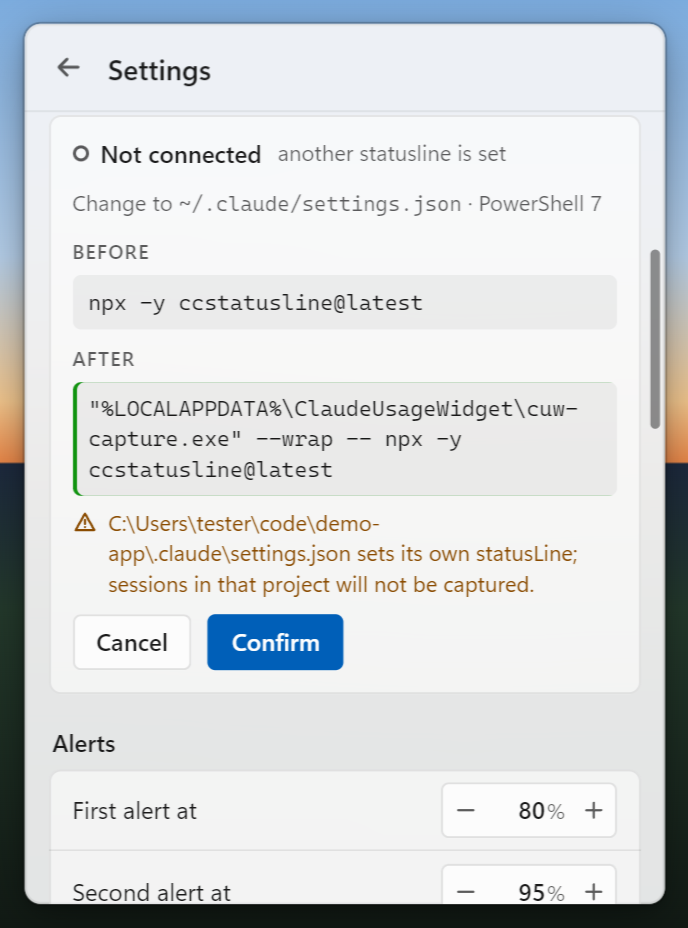
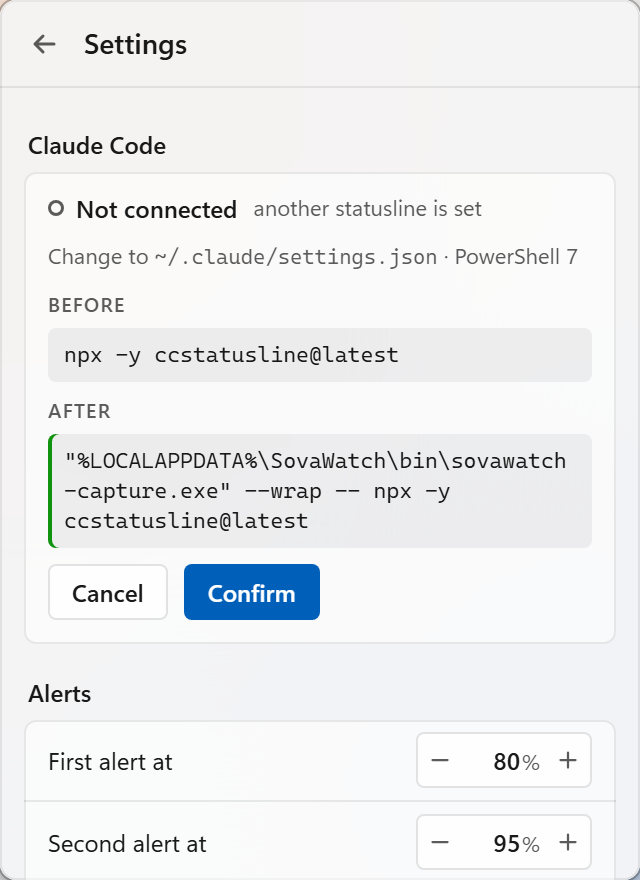
docs: rename to SovaWatch, align legal wording and add the migration guide

Changed region(s): [[0.0, 0.0, 1.0, 1.0]]

diff --git a/PRIVACY.md b/PRIVACY.md
@@ -1,6 +1,6 @@
 # Privacy
 
-Claude Usage Widget is **token-free** and **offline by default**:
+SovaWatch is **token-free** and **offline by default**:
 
 - It never reads `~/.claude/.credentials.json`, `~/.claude.json`, Claude Desktop's `config.json`
   or `claude_desktop_config.json`, cookies, `Local Storage`, `IndexedDB`, `Session Storage`,
@@ -8,7 +8,7 @@ Claude Usage Widget is **token-free** and **offline by default**:
   (`crates/core/src/saferead.rs`) even inside otherwise allowed folders.
 - It makes **no network calls unless you enable the update check** (no Anthropic API, no
   claude.ai, no telemetry). With **Settings → System → Check for updates daily** on (off by
-  default), it asks `https://api.github.com/repos/MarawanEldeib/claude-usage-widget/releases/latest`
+  default), it asks `https://api.github.com/repos/MarawanEldeib/sovawatch/releases/latest`
   at most once a day, plus whenever you click **Check now** (which works even with the daily
   check off). The request is made by Windows' own `%SystemRoot%\System32\curl.exe`; the app links
   no HTTP client. It sends only the app version (in the User-Agent header) — no account, token,
@@ -34,15 +34,16 @@ listed here cannot be opened.
 | `~/.claude/projects/**/*.jsonl` (Claude Code transcripts; `CLAUDE_CONFIG_DIR` is honoured) | the last 256 KiB (1 MiB if needed) and the first 64 KiB (512 KiB if needed) of recent files. Only these fields of assistant lines: `type`, `isSidechain`, `sessionId`, `entrypoint`, `timestamp`, `cwd` (folder name only, shown only if you enable "Show project name"), `message.model` and `message.usage` token counts; plus the 1M-context marker of the model identity line. **Message content is never parsed or kept.** Files under `subagents` folders are ignored. |
 | `%APPDATA%\Claude\local-agent-mode-sessions\**\.claude\projects\**\*.jsonl` (Cowork transcripts) | same as above. Other files in that tree — e.g. a session's `.claude\history.jsonl` prompt history — are not readable. |
 | `~/.claude/settings.json` | read only for its `statusLine` entry: to show it, to Connect / Disconnect, and — while **Warn if the connection breaks** is on (default) — to notice when something else rewrites it. Its folder is watched for changes to this file; the watchdog keeps only a fingerprint of the status-line command, never its text. The file is **written** only when you click Connect or Disconnect (or run `--disconnect`). |
-| `%LOCALAPPDATA%\ClaudeUsageWidget\**` | the widget's own data (below). |
+| `%LOCALAPPDATA%\SovaWatch\**` | the widget's own data (below). |
+| `%LOCALAPPDATA%\ClaudeUsageWidget\` | only once, on the first start after moving from Claude Usage Widget (the app's former name): its settings, state, history, alerts, window positions, update-check record, connection record (`wrap.json`) and captures are copied into `%LOCALAPPDATA%\SovaWatch\`. The old folder is not deleted; its `wrap.json` is renamed `wrap.json.migrated` once the status line points at the new helper. |
 
 ## Files written
 
-`%LOCALAPPDATA%\ClaudeUsageWidget\` (or `CUW_DATA_DIR`):
+`%LOCALAPPDATA%\SovaWatch\` (or `SOVA_DATA_DIR`):
 
 | File | Contents |
 |---|---|
-| `capture\<session_id>.json` | written by the capture helper after you Connect, one per Claude Code session, deleted after 7 days: session id, write/change times, a change fingerprint, `transcript_path`, model id and display name, context-window used % / size / "exceeds 200k" flag, each rate-limit window's used % and reset time (except `spend_limit`, which is dropped), total API duration, Claude Code version. Everything else in the status-line JSON (working directory, workspace, cost, output style, …) is dropped. Note: `transcript_path` contains your Windows user name as part of the path; it stays on your machine. |
+| `capture\<session_id>.json` | written by the capture helper after you Connect, one per Claude Code session, deleted after 7 days: session id, write/change times, a change fingerprint, model id and display name, context-window used % / size / "exceeds 200k" flag, each rate-limit window's used % and reset time (except `spend_limit`, which is dropped), total API duration. Everything else in the status-line JSON (`transcript_path`, Claude Code version, working directory, workspace, cost, output style, …) is dropped. |
 | `capture\_errors.log`, `capture\_diag.log` | at most one short line per helper failure / diagnostic run (names only, never values), size-capped. |
 | `history.jsonl` | usage history for sparklines, burn rate, reset estimation, the History view and the weekly recap, kept 14 days: time, window (`5h`, `7d`, …), %, reset time, source (`cli`/`desktop`), "estimated" flag. |
 | `state.json` | newest exact reset time per window, the newest Desktop sample already copied into the history, learned model display names (e.g. `claude-opus-5-5 → Opus 5.5`), last maintenance time, and which notifications were already shown so a restart does not repeat them: context-% thresholds per session (keyed by an opaque hash of the session id), pace / heads-up alerts per limit window, and the last weekly window recapped. |
@@ -53,18 +54,21 @@ listed here cannot be opened.
 | `update-check.json` | only if you use the update check: time of the last successful check, the newest version already announced, and the newer release that check found (version and release page, so the notice survives a restart). |
 | `wrap.json` | after Connect: your original status-line command, so Disconnect can restore it exactly. |
 | `backups\settings-<time>.json` | a copy of `~/.claude/settings.json` before each Connect/Disconnect edit (newest 10 kept). |
-| `bin\cuw-capture.exe` | the capture helper your status-line command points to. |
+| `bin\sovawatch-capture.exe` | the capture helper your status-line command points to. |
+| `migrated.json` | after moving from Claude Usage Widget: when the move happened and whether the status line was switched to the new helper, so the move runs and is announced only once. |
+
+The installer puts the app itself (`sovawatch.exe`, `sovawatch-capture.exe`, `THIRD_PARTY_NOTICES.md`, `uninstall.exe`) in the same `%LOCALAPPDATA%\SovaWatch\` folder.
 
 Files are written atomically through a short-lived `.tmp` file next to them. If `history.jsonl`
 cannot be read, a fresh history is started in `history.jsonl.unreadable` (or, if that fails too,
-`%TEMP%\cuw-history-fallback.jsonl`). Connect's self-test writes its test capture to a temporary
+`%TEMP%\sova-history-fallback.jsonl`). Connect's self-test writes its test capture to a temporary
 folder.
 
 Other locations:
 
-- `%APPDATA%\io.github.marawaneldeib.claude-usage-widget\.window-state.json` — the widget's screen
+- `%APPDATA%\io.github.marawaneldeib.sovawatch\.window-state.json` — the widget's screen
   position.
-- `%LOCALAPPDATA%\io.github.marawaneldeib.claude-usage-widget\EBWebView\` — the WebView2 profile
+- `%LOCALAPPDATA%\io.github.marawaneldeib.sovawatch\EBWebView\` — the WebView2 profile
   used to render the widget UI (contains no Claude data; its local storage only remembers which
   update notice you dismissed).
 - `HKCU\Software\Microsoft\Windows\CurrentVersion\Run` — only if you enable "Start with Windows".
@@ -72,9 +76,9 @@ Other locations:
 ## Uninstalling
 
 The uninstaller (Windows Settings → Apps) restores your status line first — it runs
-`claude-usage-widget.exe --disconnect --quiet` — and removes the "Start with Windows" entry. Ticking
-**"Delete the application data"** also removes `%APPDATA%\io.github.marawaneldeib.claude-usage-widget`,
-`%LOCALAPPDATA%\io.github.marawaneldeib.claude-usage-widget` and, once the status line no longer
-points at the helper inside it, `%LOCALAPPDATA%\ClaudeUsageWidget`. Updating to a newer version
+`sovawatch.exe --disconnect --quiet` — and removes the "Start with Windows" entry. Ticking
+**"Delete the application data"** also removes `%APPDATA%\io.github.marawaneldeib.sovawatch`,
+`%LOCALAPPDATA%\io.github.marawaneldeib.sovawatch` and, once the status line no longer
+points at the helper inside it, `%LOCALAPPDATA%\SovaWatch`. Updating to a newer version
 keeps all of this. If you remove the app by hand instead, Disconnect first (tray → Disconnect
-Claude Code, or `claude-usage-widget.exe --disconnect --quiet`), then delete the folders above.
+Claude Code, or `sovawatch.exe --disconnect --quiet`), then delete the folders above.

diff --git a/README.md b/README.md
@@ -1,13 +1,13 @@
 <div align="center">
 
-# Claude Usage Widget
+# SovaWatch
 
-**Your Claude limits, always in sight.**
+**SovaWatch — usage widget for Claude Code & Claude Desktop.**
 A small floating Windows widget that shows your Claude 5-hour and weekly usage, when each limit
 resets, and the model and context of your current Claude Code session — without ever touching
 your Claude login.
 
-[**Download for Windows**](https://github.com/MarawanEldeib/claude-usage-widget/releases/latest) ·
+[**Download for Windows**](https://github.com/MarawanEldeib/sovawatch/releases/latest) ·
 [Install guide](INSTALL.md) · [Privacy](PRIVACY.md)
 
 <img src="docs/images/card.png" alt="The widget's card view: 5-hour and weekly usage with reset countdowns, burn forecast, sparklines, model and context" width="380">
@@ -67,8 +67,8 @@ Automations).
 
 ## Install
 
-1. Download `Claude.Usage.Widget_x.y.z_x64-setup.exe` from the
-   [latest release](https://github.com/MarawanEldeib/claude-usage-widget/releases/latest).
+1. Download `SovaWatch_x.y.z_x64-setup.exe` from the
+   [latest release](https://github.com/MarawanEldeib/sovawatch/releases/latest).
 2. Run it. No admin rights needed — it installs for your user only.
    The installer is not code-signed yet, so Windows may say *"Windows protected your PC"*:
    click **More info → Run anyway**.
@@ -78,6 +78,8 @@ Automations).
    (see [Connect Claude Code](#connect-claude-code)).
 
 Checksum verification, updating, uninstalling and troubleshooting: [INSTALL.md](INSTALL.md).
+SovaWatch was called Claude Usage Widget before; to move over, see
+[Moving from Claude Usage Widget](INSTALL.md#moving-from-claude-usage-widget).
 
 ## Privacy — token-free by design
 
@@ -107,7 +109,7 @@ Connecting makes the numbers exact and live. It is optional and fully reversible
 <img src="docs/images/connect-preview-light.png" alt="Connect preview showing the status line before and after" width="300" align="right">
 
 1. The widget shows you the exact change first.
-2. It copies a tiny helper, `cuw-capture.exe`, into `%LOCALAPPDATA%\ClaudeUsageWidget\bin\`.
+2. It copies a tiny helper, `sovawatch-capture.exe`, into `%LOCALAPPDATA%\SovaWatch\bin\`.
 3. It changes **only** `statusLine.command` in `~/.claude/settings.json` (or adds a `statusLine`
    entry if you have none) so Claude Code's status-line data passes through the helper first.
    Your own status line keeps working and looks exactly the same; a backup of the file is kept.
@@ -145,7 +147,7 @@ Requirements: Windows 10/11, Rust (see `rust-toolchain.toml`), Node 20+, Visual 
 
 ```powershell
 npm install
-.\scripts\build-sidecar.ps1     # builds cuw-capture.exe into src-tauri\binaries\
+.\scripts\build-sidecar.ps1     # builds sovawatch-capture.exe into src-tauri\binaries\
 npx tauri build                 # app + per-user NSIS installer (target\release\bundle\nsis\)
 ```
 
@@ -159,13 +161,13 @@ The UI runs in a plain browser with a mock backend: `npm run dev`, then open
 Layout:
 - `crates/core` — token-free parsers and the engine (merge, reset estimation, burn rate, context,
   history, alerts, recap, safe settings edits)
-- `crates/capture` — `cuw-capture.exe`, the status-line helper
+- `crates/capture` — `sovawatch-capture.exe`, the status-line helper
 - `src-tauri` — the app: data pipeline, file watchers, window, tray, hotkeys, notifications,
   installer hooks
 - `src` — Svelte 5 UI
 
-Development overrides: `CUW_DATA_DIR`, `CLAUDE_CONFIG_DIR`, `CUW_X` / `CUW_Y`,
-`CUW_MEMORY_NORMAL`, `CUW_BROWSER_ARGS`.
+Development overrides: `SOVA_DATA_DIR`, `CLAUDE_CONFIG_DIR`, `SOVA_X` / `SOVA_Y`,
+`SOVA_MEMORY_NORMAL`, `SOVA_BROWSER_ARGS`.
 
 </details>
 
@@ -185,4 +187,6 @@ Copyright © 2026 Marawan Eldeib. **All rights reserved** — see [LICENSE](LICE
 You may install and use the official releases for personal use. Copying, modifying or
 redistributing the code or the app is not permitted without written permission.
 
-Not affiliated with or endorsed by Anthropic. "Claude" is a trademark of Anthropic.
+Independent project, not affiliated with or endorsed by Anthropic. Claude and Claude Code are
+trademarks of Anthropic, PBC. Open-source components and their licenses:
+[THIRD_PARTY_NOTICES.md](THIRD_PARTY_NOTICES.md).

diff --git a/INSTALL.md b/INSTALL.md
@@ -1,17 +1,17 @@
-# Installing Claude Usage Widget
+# Installing SovaWatch
 
 Step-by-step install, update and uninstall guide for Windows 10/11. For what the widget does, see
 the [README](README.md); for every file it reads and writes, see [PRIVACY.md](PRIVACY.md).
 
 ## 1. Download
 
-Open the [Releases page](https://github.com/MarawanEldeib/claude-usage-widget/releases) and
-download `Claude.Usage.Widget_<version>_x64-setup.exe`.
+Open the [Releases page](https://github.com/MarawanEldeib/sovawatch/releases) and
+download `SovaWatch_<version>_x64-setup.exe`.
 
 Optional: check the download against `SHA256SUMS` from the same release. In PowerShell:
 
 ```powershell
-Get-FileHash "$env:USERPROFILE\Downloads\Claude.Usage.Widget_*_x64-setup.exe" -Algorithm SHA256
+Get-FileHash "$env:USERPROFILE\Downloads\SovaWatch_*_x64-setup.exe" -Algorithm SHA256
 ```
 
 The hash must match the line in `SHA256SUMS`.
@@ -22,7 +22,7 @@ The installer is not code-signed yet, so Windows SmartScreen may show **"Windows
 PC"**. Click **More info → Run anyway**.
 
 It installs for your Windows user only (no administrator rights) into
-`%LOCALAPPDATA%\Claude Usage Widget`, and adds a Start menu entry. The widget needs the WebView2
+`%LOCALAPPDATA%\SovaWatch`, and adds a Start menu entry. The widget needs the WebView2
 runtime, which Windows 10/11 already include; if it is missing, the installer downloads it from
 Microsoft.
 
@@ -58,7 +58,7 @@ settings, history, Claude Code connection and "Start with Windows" are all kept.
 
 ## Uninstalling
 
-**Windows Settings → Apps → Installed apps → Claude Usage Widget → Uninstall.**
+**Windows Settings → Apps → Installed apps → SovaWatch → Uninstall.**
 
 The uninstaller first restores your original Claude Code status line (the same as Disconnect) and
 removes the "Start with Windows" entry. Tick **"Delete the application data"** to also remove the
@@ -67,9 +67,25 @@ widget's data folders (history, settings, backups; the full list is in
 
 If the status line cannot be restored — for example because comments were added to
 `~/.claude/settings.json` after you connected — the uninstaller leaves that file alone and keeps
-the data folder `%LOCALAPPDATA%\ClaudeUsageWidget`, because your status line still uses the helper
-inside it. Remove the `cuw-capture.exe … |` part from `statusLine.command` by hand, or click
+the data folder `%LOCALAPPDATA%\SovaWatch`, because your status line still uses the helper
+inside it. Remove the `sovawatch-capture.exe … |` part from `statusLine.command` by hand, or click
 **Disconnect** in the widget before uninstalling.
+
+## Moving from Claude Usage Widget
+
+SovaWatch is the new name of Claude Usage Widget. To move over:
+
+1. Install SovaWatch as above (it installs next to the old app; nothing is removed).
+2. Open SovaWatch once. On its first start it copies your settings, history, alerts and
+   captures from `%LOCALAPPDATA%\ClaudeUsageWidget`, and if Claude Code's status line was
+   connected, it switches the status line to SovaWatch's own helper — only the helper's path
+   changes, and **Disconnect** still restores your original status line exactly. A notification
+   confirms the move. Do not click **Reconnect** in the old app after this.
+3. Uninstall Claude Usage Widget: **Windows Settings → Apps → Installed apps → Claude Usage
+   Widget → Uninstall.** Its uninstaller leaves SovaWatch's status line alone. Ticking "Delete the
+   application data" there removes only the old app's folders.
+
+If **Start with Windows** was on in the old app, SovaWatch switches it on for itself.
 
 ## Troubleshooting
 

diff --git a/TERMS.md b/TERMS.md
@@ -1,18 +1,18 @@
-# Terms of Use — Claude Usage Widget
+# Terms of Use — SovaWatch
 
 _Last updated: 26 September 2026_
 
-By installing or using Claude Usage Widget ("the app") you agree to these terms. If you do not
+By installing or using SovaWatch ("the app") you agree to these terms. If you do not
 agree, do not install or use it.
 
 ## 1. What the app is
-A free desktop widget that shows your own Claude usage (5-hour and weekly limits, reset times,
+SovaWatch is a free desktop usage widget for Claude Code and Claude Desktop. It shows your own Claude usage (5-hour and weekly limits, reset times,
 model and context size) using files that Claude Code and Claude Desktop already keep on your
 computer. It is provided by Eng. Marawan Eldeib ("the author").
 
 ## 2. Not affiliated with Anthropic
 The app is an independent project. It is **not** made, endorsed or supported by Anthropic.
-"Claude" is a trademark of Anthropic. The numbers the app shows are read or estimated from local
+Claude and Claude Code are trademarks of Anthropic, PBC. The numbers the app shows are read or estimated from local
 files and may differ from Anthropic's own figures; Anthropic's usage page is always the
 authoritative source.
 
@@ -21,7 +21,8 @@ You remain responsible for your Claude account and for following Anthropic's ter
 policies. The app never asks for, reads or stores your Claude login, tokens or cookies, and never
 sends your data anywhere (see [PRIVACY.md](PRIVACY.md)). If you choose **Connect**, the app edits
 the status-line entry in your Claude Code settings on your behalf; you can undo this at any time
-with **Disconnect** or by uninstalling.
+with **Disconnect** or by uninstalling. The app does not change, bypass or extend any Claude usage
+limit; it only displays them.
 
 ## 4. License
 Your right to use the app is set out in the [LICENSE](LICENSE): you may install and use official
@@ -31,13 +32,14 @@ app or its source code except as the LICENSE allows or as applicable law permits
 ## 5. Updates
 The app never updates itself. If you turn on update checks, it only tells you that a newer
 version exists; downloading and installing it is your choice. Only download releases from
-[the official GitHub page](https://github.com/MarawanEldeib/claude-usage-widget/releases).
+[the official GitHub page](https://github.com/MarawanEldeib/sovawatch/releases).
 
 ## 6. No warranty
 The app is provided **"as is"**, without warranty of any kind, express or implied, including
 fitness for a particular purpose, accuracy of the numbers shown, or uninterrupted operation.
 Usage figures, reset times and forecasts may be wrong or out of date; do not rely on them for
-decisions where a mistake would cause you harm.
+decisions where a mistake would cause you harm. Anthropic may change Claude Code or Claude Desktop
+at any time in ways that stop the app working.
 
 ## 7. Limitation of liability
 To the maximum extent permitted by law, the author is not liable for any indirect, incidental,
